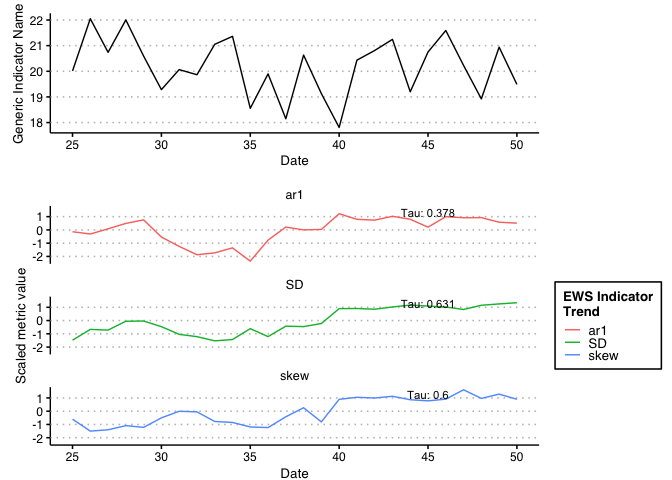
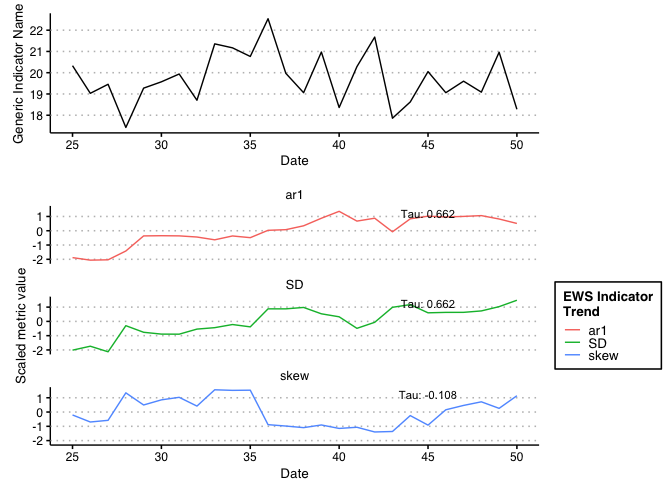
README commit

diff --git a/README.md b/README.md
@@ -12,7 +12,7 @@ the user to input univariate or multivariate data and perform either
 traditional rolling window or expanding window EWS approaches.
 Publication standard and ggplot inspired figures can also be generated
 during this process. *EWSmethods* also provides an R interface to
-**EWSNET** ([link](https://ewsnet.github.io)), a deep learning modelling
+[**EWSNET**](https://ewsnet.github.io), a deep learning modelling
 framework for predicting critical transitions.
 
 ## Installation
@@ -40,15 +40,16 @@ skylark_data <- data.frame(time = seq(1:50), abundance = rnorm(50,mean = 20), tr
 ews_metrics <- c("SD","ar1","skew") #the early warning signal metrics we wish to compute
 
 roll_ews <- univariate_EWS_wrapper(data = skylark_data[,1:2],metrics =  ews_metrics,method = "rolling",winsize = 50, ggplotIt =TRUE) #lets using a rolling window approach
-```
 
-<img src="man/figures/README-example-1.png" width="100%" /><img src="man/figures/README-example-2.png" width="100%" />
-
-``` r
 print(roll_ews$EWS$cor) #return the Kendall Tau correlations for each EWS metric
-#>            SD       ar1 skew
-#> tau 0.6307692 0.3784615  0.6
+#>            SD       ar1       skew
+#> tau 0.6615385 0.6615385 -0.1076923
 ```
+
+We can then use the resulting figures to identify oncoming transitions.
+In this case, we would expect no transition as the data originates from
+a normal distribution. This is evident with no consistent increasing
+correlation with time:
 
 <img src="man/figures/README-rolling_plot-1.png" width="100%" />
 
